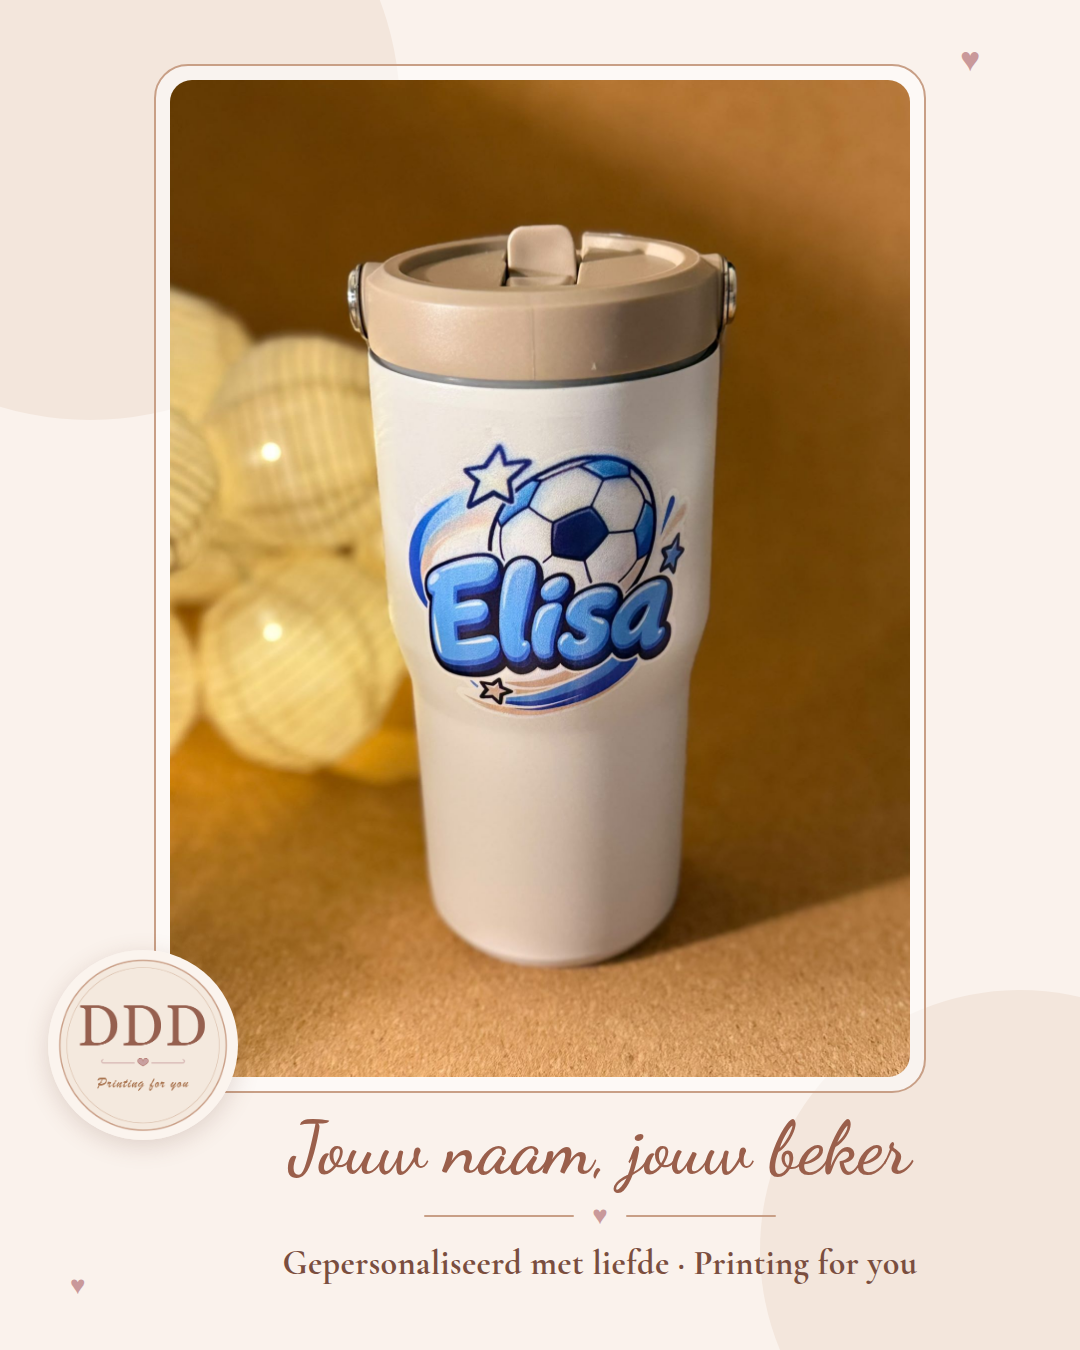
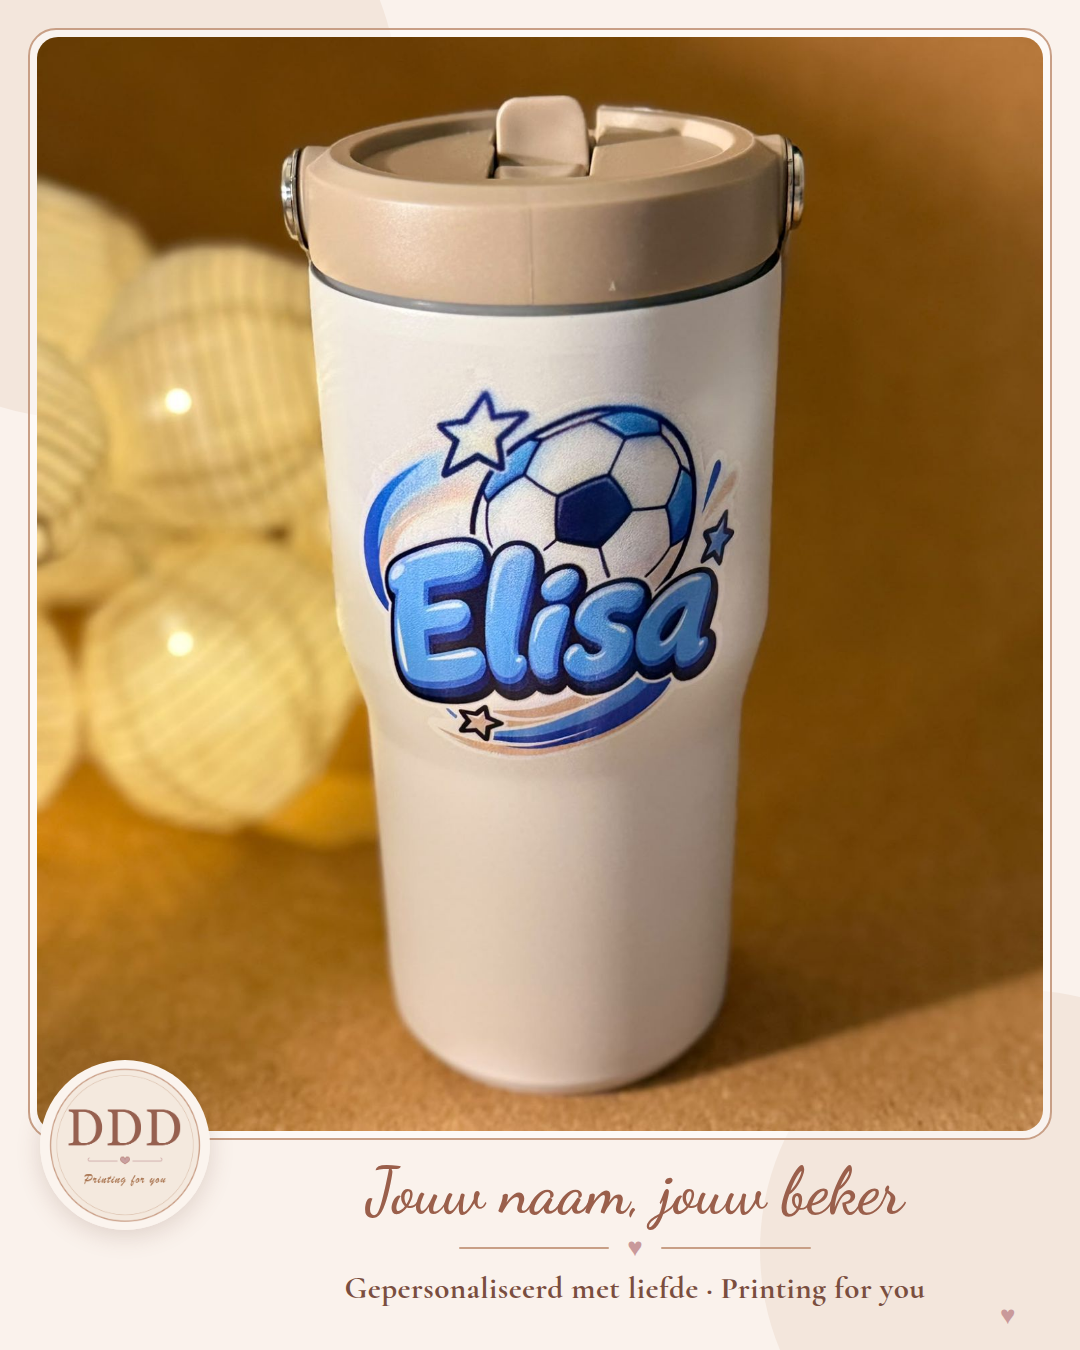
Instagram-sjabloon: smallere rand, grotere foto
Claude-Session: https://claude.ai/code/session_01HaA32Qybee1y13UJbtbMTK

diff --git a/drukwerk/instagram/sjabloon.html b/drukwerk/instagram/sjabloon.html
@@ -11,25 +11,25 @@ body.story{height:1920px}
 .blob{position:absolute;border-radius:50%;background:var(--zand)}
 .b1{width:620px;height:620px;left:-220px;top:-200px}.b2{width:520px;height:520px;right:-200px;bottom:-160px}
 .hart{position:absolute;color:var(--roze);font-size:34px}
-.frame{position:absolute;left:50%;transform:translateX(-50%);top:64px;width:772px;height:1029px;border:2px solid var(--rand);border-radius:34px;padding:14px;background:#fff8}
-.frame img{width:100%;height:100%;object-fit:cover;border-radius:22px;display:block}
-.logo{position:absolute;width:190px;height:190px;border-radius:50%;box-shadow:0 6px 24px #7a4e3f33}
+.frame{position:absolute;left:50%;transform:translateX(-50%);top:28px;width:1024px;height:1112px;border:2px solid var(--rand);border-radius:28px;padding:7px;background:#fff8}
+.frame img{width:100%;height:100%;object-fit:cover;border-radius:21px;display:block;object-position:center 55%}
+.logo{position:absolute;width:170px;height:170px;border-radius:50%;box-shadow:0 6px 24px #7a4e3f33}
 .onder{position:absolute;left:0;right:0;text-align:center}
-.kop{font-family:'Dancing Script',cursive;font-size:74px;color:var(--bruin);line-height:1}
-.lijn{display:flex;align-items:center;justify-content:center;gap:18px;margin:14px 0 12px;color:var(--roze);font-size:26px}
+.kop{font-family:'Dancing Script',cursive;font-size:64px;color:var(--bruin);line-height:1}
+.lijn{display:flex;align-items:center;justify-content:center;gap:18px;margin:8px 0 6px;color:var(--roze);font-size:26px}
 .lijn:before,.lijn:after{content:"";width:150px;height:2px;background:var(--rand);border-radius:2px}
-.sub{font-size:34px;font-weight:600;letter-spacing:.5px}
+.sub{font-size:31px;font-weight:600;letter-spacing:.5px}
 /* feed */
-body:not(.story) .logo{left:48px;top:950px}
-body:not(.story) .onder{top:1112px;padding-left:120px}
+body:not(.story) .logo{left:40px;top:1060px}
+body:not(.story) .onder{top:1160px;padding-left:190px}
 /* story */
-.story .logo{left:50%;transform:translateX(-50%);top:70px;width:220px;height:220px}
-.story .frame{top:330px;width:900px;height:1200px}
-.story .onder{top:1590px}
+.story .logo{left:50%;transform:translateX(-50%);top:48px;width:190px;height:190px}
+.story .frame{top:270px;width:1024px;height:1360px}
+.story .onder{top:1680px}
 .story .kop{font-size:88px}
 </style></head><body>
 <div class="blob b1"></div><div class="blob b2"></div>
-<span class="hart" style="left:960px;top:40px">♥</span><span class="hart" style="left:70px;top:1270px;font-size:26px">♥</span>
+<span class="hart" style="left:1000px;top:1300px;font-size:26px">♥</span><span class="hart" style="display:none">♥</span>
 <div class="frame"><img src="foto.jpg" alt=""></div>
 <img class="logo" src="logo.png" alt="DDD logo">
 <div class="onder">
